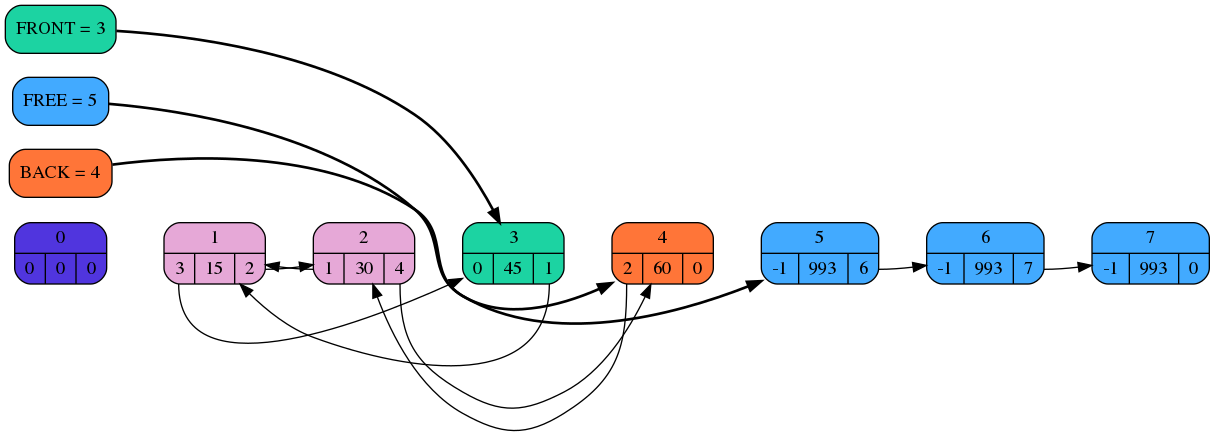
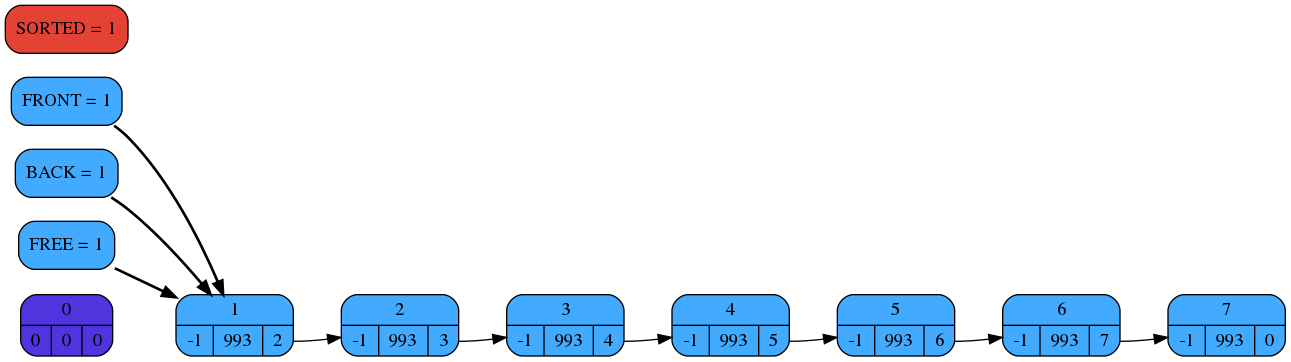
added function remove (popback & front)

diff --git a/list.cpp b/list.cpp
@@ -18,9 +18,10 @@ StatusCode ListCtor(List_t *list, size_t capacity)
         return LIST_BAD_ALLOC;
     
     list->capacity = capacity;
-    list->front = 1;
-    list->back  = 1;
-    list->free  = 1;
+    list->front    = 1;
+    list->back     = 1;
+    list->free     = 1;
+    list->sorted   = 1;
 
     for (size_t index = 1; index < capacity; ++index)
     {
@@ -163,12 +164,12 @@ StatusCode ListInsertAfter (List_t *list, size_t physical_index, Val_t value)
     if (status != LIST_IS_OK)
         return status;
 
-    if (physical_index != list->back)
-        list->sorted = 0;
-
     if (physical_index < 1 || physical_index > list->capacity + 1 ||
         list->data[physical_index].prev == FREE_INDEX && (list->back != list->front || physical_index != list->back))
         return INVALID_INSERT_INDEX;
+
+    if (physical_index != list->back)
+        list->sorted = 0;
 
     if (list->free == 0)
     {
@@ -304,47 +305,110 @@ StatusCode ListPushFront(List_t *list, Val_t value)
     return ListInsertBefore(list, ListFront(list), value);
 }
 
-// Val_t      ListRemove(List_t *list, size_t physical_index)
-// {
-//     if (ListVerify(list) != LIST_IS_OK)
-//         return DEAD_VALUE;
+Val_t      ListRemove(List_t *list, size_t physical_index)
+{
+    if (ListVerify(list) != LIST_IS_OK)
+        return DEAD_VALUE;
     
-//     if (physical_index == 0 || physical_index > list->capacity + 1 ||
-//         list->data[physical_index].prev == FREE_INDEX)
-//         return DEAD_VALUE;
+    if (physical_index == 0 || physical_index > list->capacity + 1 ||
+        list->data[physical_index].prev == FREE_INDEX)
+        return DEAD_VALUE;
     
-//     if (physical_index == list->front)
-//     {
-//         if (physical_index == list->back)
-//             if (list->data[physical_index].prev == FREE_INDEX)
-//                 return DEAD_VALUE;
-//             else
-//             {
-//                 Val_t elem = list->data[physical_index].value;
+    if (physical_index == list->front)
+    {
+        if (physical_index == list->back)
+            if (list->data[physical_index].prev == FREE_INDEX)
+                return DEAD_VALUE;
+            else
+            {
+                Val_t value = list->data[physical_index].value;
                 
-//                 list->data[physical_index].prev  = FREE_INDEX;
-//                 list->data[physical_index].next  = list->free;
-//                 list->data[physical_index].value = DEAD_VALUE;
+                list->data[physical_index].prev  = FREE_INDEX;
+                list->data[physical_index].next  = list->free;
+                list->data[physical_index].value = DEAD_VALUE;
 
-//                 list->free = physical_index;
+                list->free = physical_index;
 
-//                 return elem;
-//             }
-//         else
+                return value;
+            }
+        else
+        {
+            Val_t value = list->data[list->front].value;
 
-//     }
-//     else
-//     if (physical_index == list->back)
-//     {
+            size_t new_front = list->data[list->front].next;
+                
+            list->data[new_front].prev  = 0;
+                
+            list->data[list->front].prev  = FREE_INDEX;
+            list->data[list->front].next  = list->free;
+            list->data[list->front].value = DEAD_VALUE;
+
+            list->free  = list->front;
+
+            list->front = new_front;
+
+            return value;
+        }
+    }
+    else
+    if (physical_index == list->back)
+    {
+        Val_t value = list->data[list->back].value;
+
+        size_t new_back = list->data[list->back].prev;
+
+        list->data[new_back].next = 0;
         
-//     }
-//     else
-//     {
+        list->data[list->back].prev  = FREE_INDEX;
+        list->data[list->back].next  = list->free;
+        list->data[list->back].value = DEAD_VALUE;
 
-//     }
+        list->free = list->back;
+
+        list->back = new_back;
+
+        return value;
+    }
+    else
+    {
+        list->sorted = 0;
+
+        size_t next = list->data[physical_index].next;
+        size_t prev = list->data[physical_index].prev;
     
+        Val_t value = list->data[physical_index].value;
 
-// }
+        list->data[physical_index].prev  = FREE_INDEX;
+        list->data[physical_index].next  = list->free;
+        list->data[physical_index].value = DEAD_VALUE;
+
+        list->free = physical_index;
+
+        list->data[next].prev = prev;
+        list->data[prev].next = next;
+
+        return value;
+    }
+
+    assert(false);
+    return DEAD_VALUE;
+}
+
+Val_t      ListPopBack  (List_t *list)
+{
+    if (ListVerify(list) != LIST_IS_OK)
+        return DEAD_VALUE;
+
+    return ListRemove(list, ListBack(list));
+}
+
+Val_t      ListPopFront (List_t *list)
+{
+    if (ListVerify(list) != LIST_IS_OK)
+        return DEAD_VALUE;
+
+    return ListRemove(list, ListFront(list));
+}
 
 StatusCode ListVerify(List_t *list)
 {
@@ -512,7 +576,7 @@ static const char *ColorPicker(List_t *list, size_t index)
 
     if ((ListVerify(list) & LIST_INDEXES_RUINED) != 0)
         return colors[6];
-    else
+
     if (index <= list->capacity + 1 && list->data[index].prev == FREE_INDEX)
         return colors[1];
     else
@@ -558,6 +622,10 @@ StatusCode ListDump(List_t *list)
     fprintf(dump_file, "    free  [fillcolor=\"%s\", "
                        "    label=\"FREE = %lu\"];\n",
                        ColorPicker(list, list->free), list->free);
+
+    fprintf(dump_file, "    sorted [fillcolor=\"%s\","
+                       "    label=\"SORTED = %d\"];\n",
+                       ColorPicker(list, FREE_INDEX / 2), list->sorted);                   
 
     fputs("    node [color=black, shape=record, style=\"rounded, filled\"];\n", dump_file);
     fputs("\n", dump_file);

diff --git a/main.cpp b/main.cpp
@@ -14,19 +14,27 @@ int main()
 
     error = ListInsertAfter(&list, 1, 15);
     printf("error = %lu\n", error);
+    ListDump(&list);
 
-    error = ListInsertAfter(&list, 1, 30);
-    printf("error = %lu\n", error);
-
-    error = ListInsertAfter(&list, 2, 45);
-    printf("error = %lu\n", error);
-
+    // Val_t x = ListRemove(&list, 1);
+    // printf("x = %d\n", x);
     // ListDump(&list);
+
+    error = ListInsertAfter(&list, 1, 45);
+    printf("error = %lu\n", error);
+    ListDump(&list);
 
     error = ListInsertAfter(&list, 2, 60);
     printf("error = %lu\n", error);
-
     ListDump(&list);
+
+    error = ListInsertAfter(&list, 3, 75);
+    printf("error = %lu\n", error);
+    ListDump(&list);
+
+    // x = ListRemove(&list, 1);
+    // printf("x = %d\n", x);
+    // ListDump(&list);
 
     if (error = ListVerify(&list))
         printf("error = %lu\n", error);

diff --git a/list.h b/list.h
@@ -131,12 +131,12 @@ StatusCode ListPrintErr(List_t *list);
     вставки элемента в начало списка
     вставки элемента в конец  списка
 
-    TODO:
-
     удаления заданного элемента
 
     удаления последнего элемента
     удаления первого    элемента
+    
+    TODO:
 
     увеличения/уменьшения ёмкости
 
@@ -145,6 +145,7 @@ StatusCode ListPrintErr(List_t *list);
     удаления всех элементов
 
     линеаризация
+    
 */
 
 #endif

diff --git a/debug_lib.h b/debug_lib.h
@@ -12,4 +12,7 @@
 
 #define PRINT_UL(num) printf("[%s:%lu] %s = %lu\n", __PRETTY_FUNCTION__, __LINE__, #num, num);
 
+#define PRINT_D(num) printf("[%s:%lu] %s = %d\n", __PRETTY_FUNCTION__, __LINE__, #num, num);
+
+
 #endif
